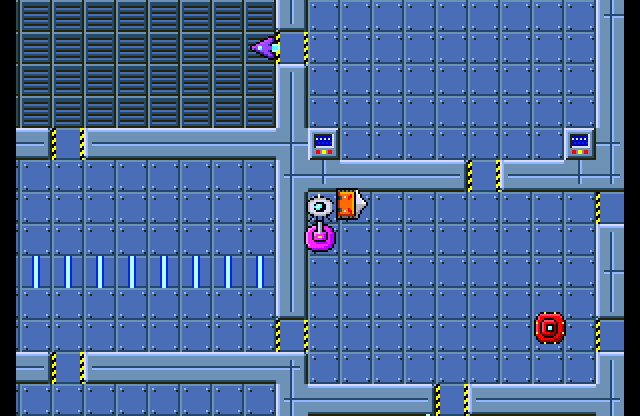
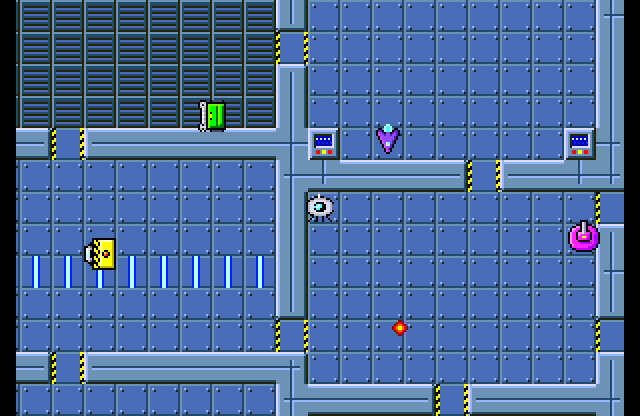
Site update

diff --git a/index.html b/index.html
@@ -52,7 +52,7 @@
   <h2>Small drone, big ideas</h2>
   <p class="sub">What's planned. Our own game in the genre we grew up on, not a remake.</p>
   <div class="grid cards">
-    <article class="card"><h3>Take over anything</h3><p>Touch a robot to plug in. A quick wiring puzzle: turn the pieces so your signal reaches its core before its own signal does. Bigger robots have tangled circuits and faster signals.</p></article>
+    <article class="card"><h3>Take over anything</h3><p>Tap fire to shoot; hold it, and the drone's plugs come out: touch a robot to plug in. A quick wiring puzzle: turn the pieces so your signal reaches its core before its own signal does. Bigger robots have tangled circuits and faster signals.</p></article>
     <article class="card"><h3>Become the robot</h3><p>Win, and you are that robot: its speed, its armour, its weapon. Lose, and you're thrown out weaker. If your host is wrecked, the drone pops out and has to find another, fast.</p></article>
     <article class="card"><h3>Down to the reactor</h3><p>Deck by deck, lift by lift, down through the station to the reactor at the bottom. Clear a deck of robots and its lights go out behind you.</p></article>
     <article class="card"><h3>Smooth scrolling</h3><p>The station scrolls smoothly in every direction, on the Next's own hardware: something the old 8-bit versions of this kind of game could only dream of.</p></article>
@@ -85,7 +85,7 @@
   <p class="sub">As a real Next draws them. Click a picture to see it bigger.</p>
   <div class="gallery">
     <a class="shot" href="shots/title.png" data-caption="The title screen, over the live deck. Work in progress."><img src="shots/title.png" width="640" height="512" loading="lazy" alt="The title screen: QUAZADROID in chrome letters, TAKE OVER THE MACHINES, over a steel deck with robots"></a>
-    <a class="shot" href="shots/start.png" data-caption="The drone wakes up on the top deck. Work in progress."><img src="shots/start.png" width="640" height="512" loading="lazy" alt="The top deck beside the stars outside, the drone in a corner room, a sweeper and a porter nearby, the panel along the bottom"></a>
+    <a class="shot" href="shots/fight.png" data-caption="Under fire: a sentry and an overseer open up on the drone, and the runner and bruiser close in. Work in progress."><img src="shots/fight.png" width="640" height="512" loading="lazy" alt="The drone in a steel room, red enemy shots flying at it from a pink sentry and a red overseer, the panel showing its armour, its worried face and the score"></a>
     <a class="shot" href="shots/puzzle.png" data-caption="Plugged into a sentry: turn the wires to reach its core before its signal does. Work in progress."><img src="shots/puzzle.png" width="640" height="512" loading="lazy" alt="The takeover puzzle: a grid of wire pieces on a metal board, the robot's red signal creeping along the top towards its core"></a>
     <a class="shot" href="shots/granted.png" data-caption="Access granted: the runner is yours. Work in progress."><img src="shots/granted.png" width="640" height="512" loading="lazy" alt="The puzzle won: a glowing cyan path through the wires to a white core, and ACCESS GRANTED"></a>
   </div>
@@ -99,8 +99,9 @@
       <li class="done"><b>The deck</b><span>A whole deck scrolling smoothly in every direction, joined steel walls, consoles and doors.</span></li>
       <li class="done"><b>The robots</b><span>All eight kinds, wandering the deck, each with its own body and rank colour.</span></li>
       <li class="done"><b>The takeover</b><span>The wiring puzzle, winning and losing, and riding the robot you won.</span></li>
-      <li class="now"><b>Fighting back</b><span>Shooting, ramming, doors only a warden can open, and the drone's face on the panel wincing as it's hurt.</span></li>
-      <li><b>Down the station</b><span>Dark rooms, lifts, more decks and the reactor.</span></li>
+      <li class="done"><b>The title screen</b><span>Chrome letters over the live deck.</span></li>
+      <li class="done"><b>Fighting back</b><span>Shooting eight ways, ramming, crossfire, explosions and wrecks, doors only a warden can open, a score, and the drone's face on the panel wincing as it's hurt.</span></li>
+      <li class="now"><b>Down the station</b><span>Dark rooms, six decks and their lifts, and the reactor.</span></li>
       <li><b>Sound</b><span>The music, the effects and the station's voice.</span></li>
     </ol>
     <p class="meta">No test build yet. When there is one, it'll be here.</p>
